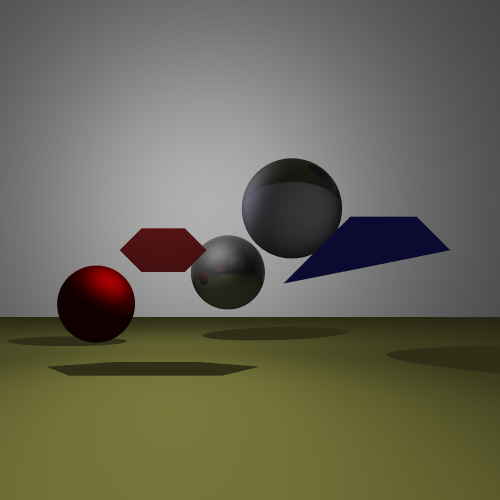
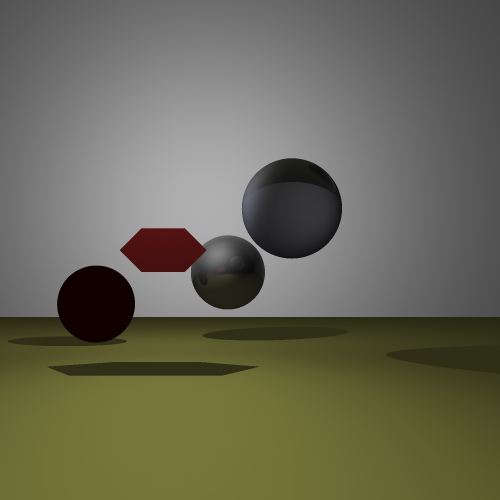
Transforms redone

Changed region(s): [[0.57, 0.42, 0.9, 0.57], [0.15, 0.51, 0.27, 0.63]]

diff --git a/src/Vector.java b/src/Vector.java
@@ -65,16 +65,37 @@ class Vector {
     }
 
     static Vector transform(Vector v, SimpleMatrix transformation_matrix){
-       SimpleMatrix vector1 = new SimpleMatrix(1,4);
-       vector1.set(0,0,v.getX());
+       //SimpleMatrix vector1 = new SimpleMatrix(1,4);
+       double[] matrix2 = new double[4];
+       double[] matrix1 = new double[4];
+       matrix1[0] = v.getX();
+       matrix1[1] = v.getY();
+       matrix1[2] = v.getZ();
+       matrix1[3] = 1.0;
+       //if(Math.abs(v.getX()-50.0)<0.0001){ v.print();}
+       /*vector1.set(0,0,v.getX());
        vector1.set(0,1,v.getY());
        vector1.set(0,2,v.getZ());
-       vector1.set(0,3,1.0);
-       SimpleMatrix vector2 = vector1.mult(transformation_matrix);
-       if(Math.abs(vector2.get(0,3) - 1.0) < 0.01){
-           vector2.scale(1/vector2.get(0,3));
+       vector1.set(0,3,1.0);*/
+       for(int i=0; i<4; i++) {
+           double x = 0.0;
+           for(int j=0; j<4; j++) {
+               x += matrix1[i]*transformation_matrix.get(j,i);
+           }
+           matrix2[i] = x;
        }
-       return new Vector(vector2.get(0,0), vector2.get(0, 1), vector2.get(0,2));
+       //SimpleMatrix vector2 = vector1.mult(transformation_matrix);
+       if(Math.abs(matrix2[3] - 1.0) > 0.01){
+           matrix2[0] *= 1/matrix2[3];
+           matrix2[1] *= 1/matrix2[3];
+           matrix2[2] *= 1/matrix2[3];
+       }
+      /* if(Math.abs(vector2.get(0,3) - 1.0) > 0.01){
+           vector2.scale(1/vector2.get(0,3));
+       }*/
+       Vector v2 = new Vector(matrix2[0], matrix2[1], matrix2[2]);
+       // if(Math.abs(v.getX()-50.0)<0.0001){ v2.print();}
+        return v2;
     }
 
     void print() {

diff --git a/src/Polygon.java b/src/Polygon.java
@@ -167,13 +167,9 @@ public class Polygon implements Entity{
     }
 
     public Vector getIntersection(Ray ray, double time) {
-        Vector intersection = new Vector(ray.getOrigin().getX() + ray.getDirection().getX() * time,
+        return new Vector(ray.getOrigin().getX() + ray.getDirection().getX() * time,
                 ray.getOrigin().getY() + ray.getDirection().getY() * time,
                 ray.getOrigin().getZ() + ray.getDirection().getZ() * time);
-        if(isTransformed()) {
-            return Vector.transform(intersection, transformation_matrix);
-        }
-        return intersection;
     }
 
     //Normal at every point is same? (We only care for direction, this shouldn't matter, in any case check)
@@ -185,15 +181,14 @@ public class Polygon implements Entity{
         Vector v2 = new Vector(vertexlist[2].getX() - vertexlist[1].getX(),
                 vertexlist[2].getY() - vertexlist[1].getY(),
                 vertexlist[2].getZ() - vertexlist[1].getZ());
-        Vector normal = Vector.scale(1/(Vector.norm(Vector.cross(v1,v2))), Vector.cross(v1,v2));
-
-        if(isTransformed()) {
-            return Vector.transform(normal, transformation_matrix.invert().transpose());
-        }
-        return normal;
+        return Vector.scale(1/(Vector.norm(Vector.cross(v1,v2))), Vector.cross(v1,v2));
     }
 
     public Ray getRefractedRay (Ray ray, Vector intersection, Vector normal) {
         return ray;
+    }
+
+    public SimpleMatrix getTransformation() {
+        return transformation_matrix;
     }
 }

diff --git a/src/Sphere.java b/src/Sphere.java
@@ -67,13 +67,9 @@ class Sphere implements Entity {
     }
 
     public Vector getIntersection(Ray ray, double time) {
-        Vector intersection = new Vector(ray.getOrigin().getX() + ray.getDirection().getX() * time,
+        return new Vector(ray.getOrigin().getX() + ray.getDirection().getX() * time,
                 ray.getOrigin().getY() + ray.getDirection().getY() * time,
                 ray.getOrigin().getZ() + ray.getDirection().getZ() * time);
-        if(isTransformed()) {
-            return Vector.transform(intersection, transformation_matrix);
-        }
-        return intersection;
     }
 
     public Ray getRefractedRay (Ray ray, Vector intersection, Vector normal) {
@@ -100,11 +96,7 @@ class Sphere implements Entity {
     }
 
     public Vector getNormal(Vector intersection) {
-       Vector normal =  Vector.unit(Vector.subtract(intersection, centre));
-       if(isTransformed()) {
-           return Vector.transform(normal, transformation_matrix.invert().transpose());
-       }
-       return normal;
+       return  Vector.unit(Vector.subtract(intersection, centre));
     }
 
 
@@ -118,6 +110,10 @@ class Sphere implements Entity {
 
     public boolean isTransformed() {
         return isTransformed;
+    }
+
+    public SimpleMatrix getTransformation() {
+        return transformation_matrix;
     }
 }
 

diff --git a/src/Plane.java b/src/Plane.java
@@ -45,10 +45,6 @@ public class Plane implements Entity {
     }
 
     public Vector getNormal(Vector intersection) {
-
-        if(isTransformed()) {
-            return Vector.transform(normal, transformation_matrix.invert().transpose());
-        }
         return normal;
     }
 
@@ -84,17 +80,17 @@ public class Plane implements Entity {
     }
 
     public Vector getIntersection (Ray ray, double time) {
-        Vector intersection = new Vector(ray.getOrigin().getX() + ray.getDirection().getX() * time,
+        return new Vector(ray.getOrigin().getX() + ray.getDirection().getX() * time,
                 ray.getOrigin().getY() + ray.getDirection().getY() * time,
                 ray.getOrigin().getZ() + ray.getDirection().getZ() * time);
-       if(isTransformed()) {
-            return Vector.transform(intersection, transformation_matrix);
-        }
-        return intersection;
     }
 
     public Ray getRefractedRay (Ray ray, Vector intersection, Vector normal) {
         return ray;
+    }
+
+    public SimpleMatrix getTransformation() {
+        return transformation_matrix;
     }
 }
 

diff --git a/src/Tracer.java b/src/Tracer.java
@@ -26,9 +26,17 @@ class Tracer {
         if (intersectingEntity == null)
             return null;
 
-        double timeOfIntersection = intersectingEntity.getTimeIntersection(ray);
+        if(intersectingEntity.isTransformed()) {
+            ray.transform(intersectingEntity.getTransformation());
+        }
+        double timeOfIntersection = intersectingEntity.getTimeIntersection(ray); //modify this
         Vector intersection = intersectingEntity.getIntersection(ray, timeOfIntersection);
         Vector normal = intersectingEntity.getNormal(intersection);
+
+        if(intersectingEntity.isTransformed()){
+            intersection = Vector.transform(intersection, intersectingEntity.getTransformation().invert());
+            normal = Vector.transform(normal, intersectingEntity.getTransformation().invert());
+        }
 
         Colour colour = Colour.multiply(ambient, intersectingEntity.getColour());
         for(Light light : lights) {

diff --git a/src/Ray.java b/src/Ray.java
@@ -1,3 +1,5 @@
+import org.ejml.simple.SimpleMatrix;
+
 /**
  * Created by Nikhil on 27/01/17.
  */
@@ -24,5 +26,10 @@ class Ray {
 
     public void setDirection(Vector direction) {
         this.direction = direction;
+    }
+
+    public void transform(SimpleMatrix transformation_matrix) {
+        origin = Vector.transform(origin, transformation_matrix);
+        direction = Vector.transform(direction, transformation_matrix);
     }
 }

diff --git a/src/Entity.java b/src/Entity.java
@@ -1,3 +1,6 @@
+import org.ejml.simple.SimpleEVD;
+import org.ejml.simple.SimpleMatrix;
+
 /**
  * Created by Nikhil on 27/01/17.
  */
@@ -8,4 +11,6 @@ interface Entity {
     Ray getRefractedRay(Ray ray, Vector intersection, Vector normal);
     Colour getColour();
     Material getMaterial();
+    public boolean isTransformed();
+    public SimpleMatrix getTransformation();
 }
